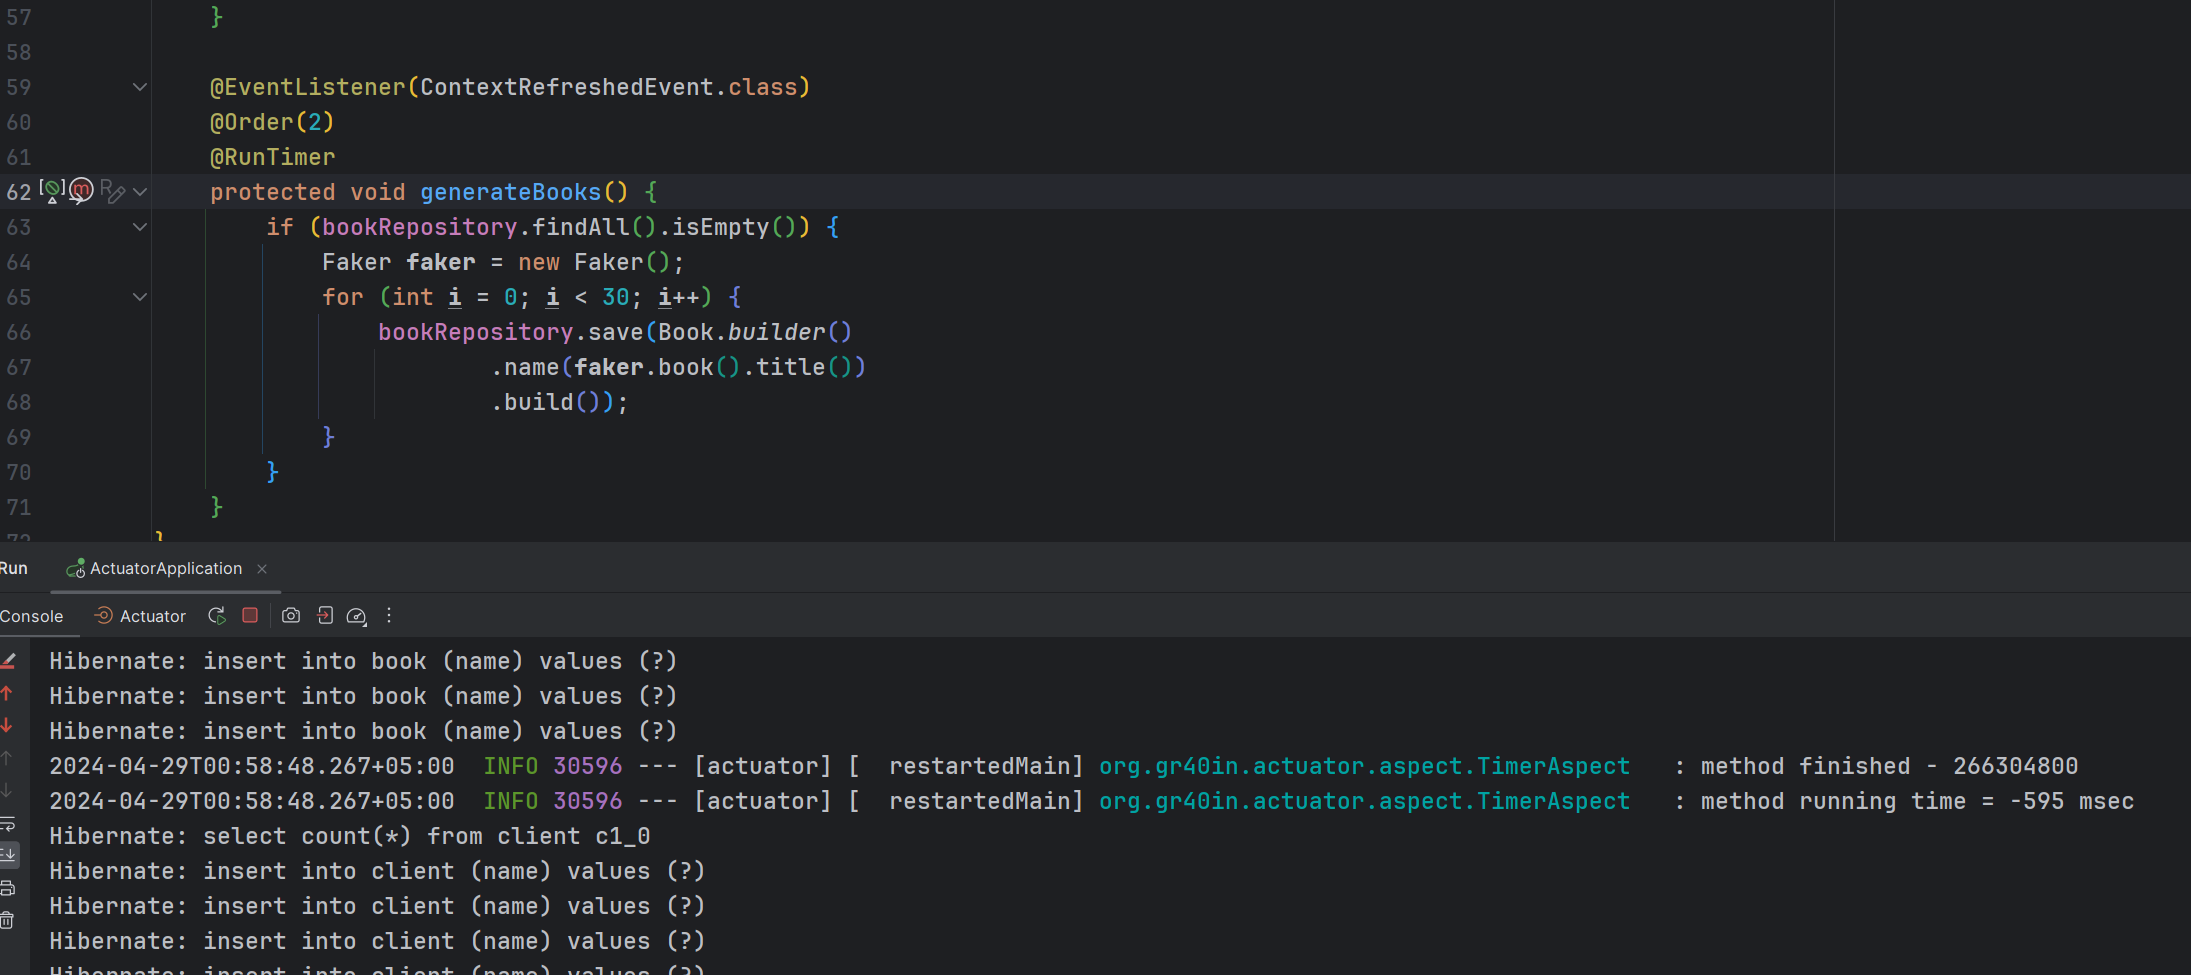
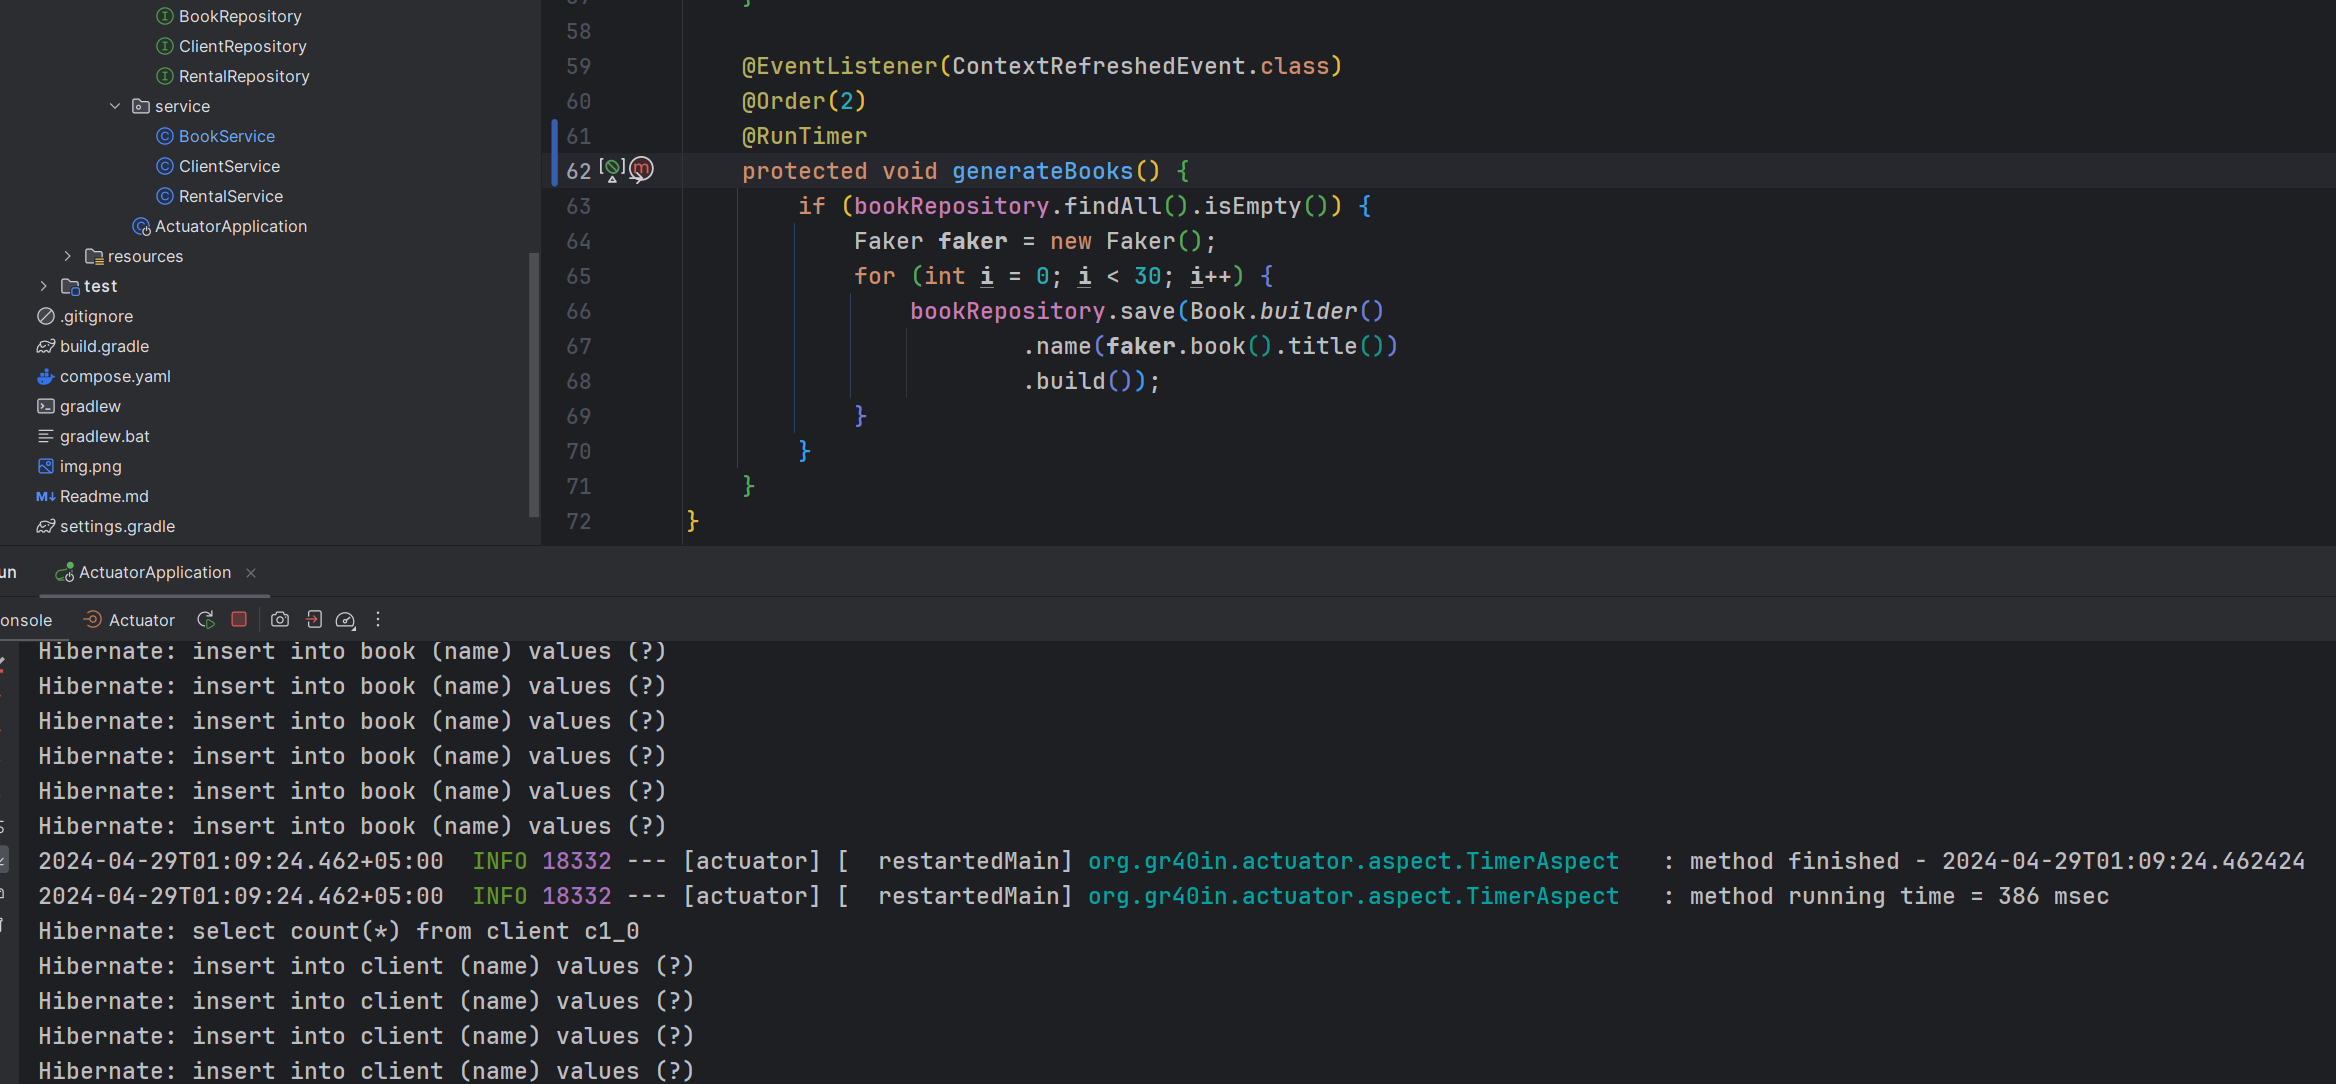
done

Changed region(s): [[0.0, 0.5231, 0.9932, 1.0], [0.0, 0.0, 0.5897, 0.4923]]

diff --git a/src/main/java/org/gr40in/mytimerstarter/aspect/TimerAspect.java b/src/main/java/org/gr40in/mytimerstarter/aspect/TimerAspect.java
@@ -6,6 +6,7 @@ import org.aspectj.lang.annotation.Around;
 import org.aspectj.lang.annotation.Aspect;
 import org.springframework.stereotype.Component;
 
+import java.time.Duration;
 import java.time.LocalDateTime;
 
 @Slf4j
@@ -14,13 +15,13 @@ import java.time.LocalDateTime;
 public class TimerAspect {
     @Around("@annotation(org.gr40in.mytimerstarter.aspect.RunTimer)")
     public Object timeLogMethod(ProceedingJoinPoint proceedingJoinPoint) throws Throwable {
-        long startTime = LocalDateTime.now().getNano();
+        var startTime = LocalDateTime.now();
         System.out.println("am i work ?");
         log.info("method start - " + startTime);
         Object proceed = proceedingJoinPoint.proceed();
-        long endTime = LocalDateTime.now().getNano();
+        var endTime = LocalDateTime.now();
         log.info("method finished - " + endTime);
-        log.info("method running time = " + (endTime - startTime) / 1000_000 + " msec");
+        log.info("method running time = " + (Duration.between(startTime, endTime).toNanos() / 1000_000 + " msec"));
         return proceed;
     }
 

diff --git a/Readme.md b/Readme.md
@@ -3,5 +3,3 @@
 ![img_1.png](img_1.png)
 
 ![img_2.png](img_2.png)
-
-
